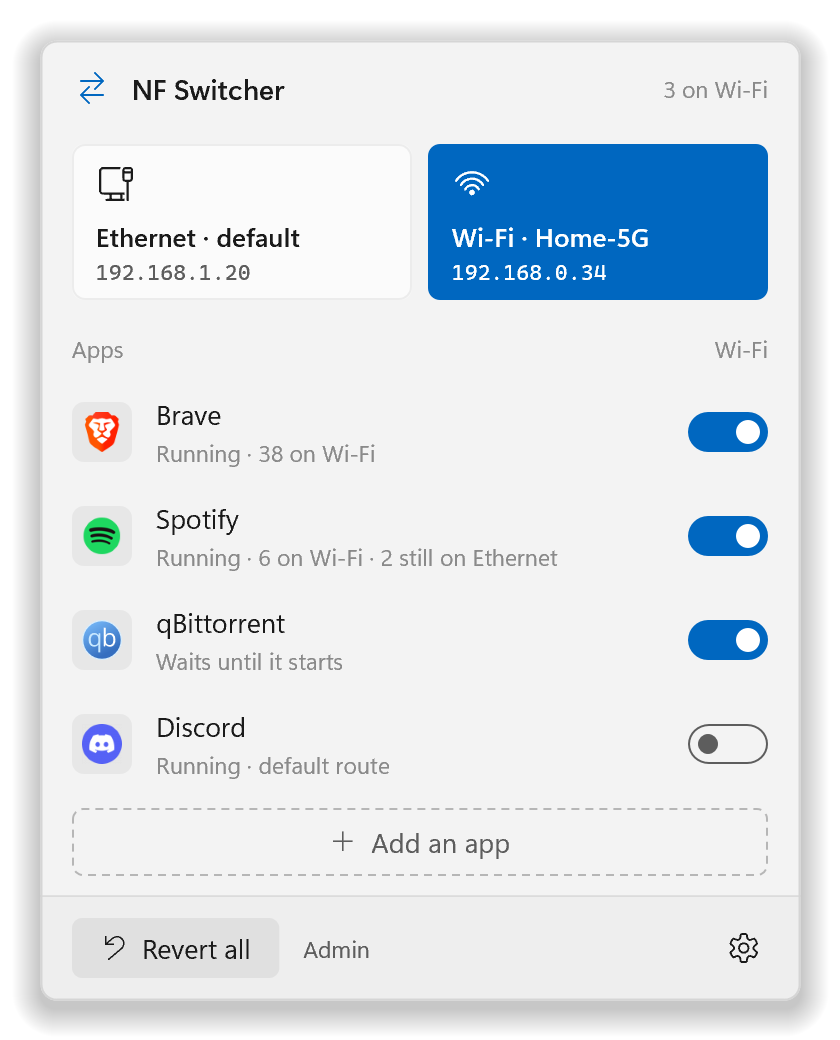
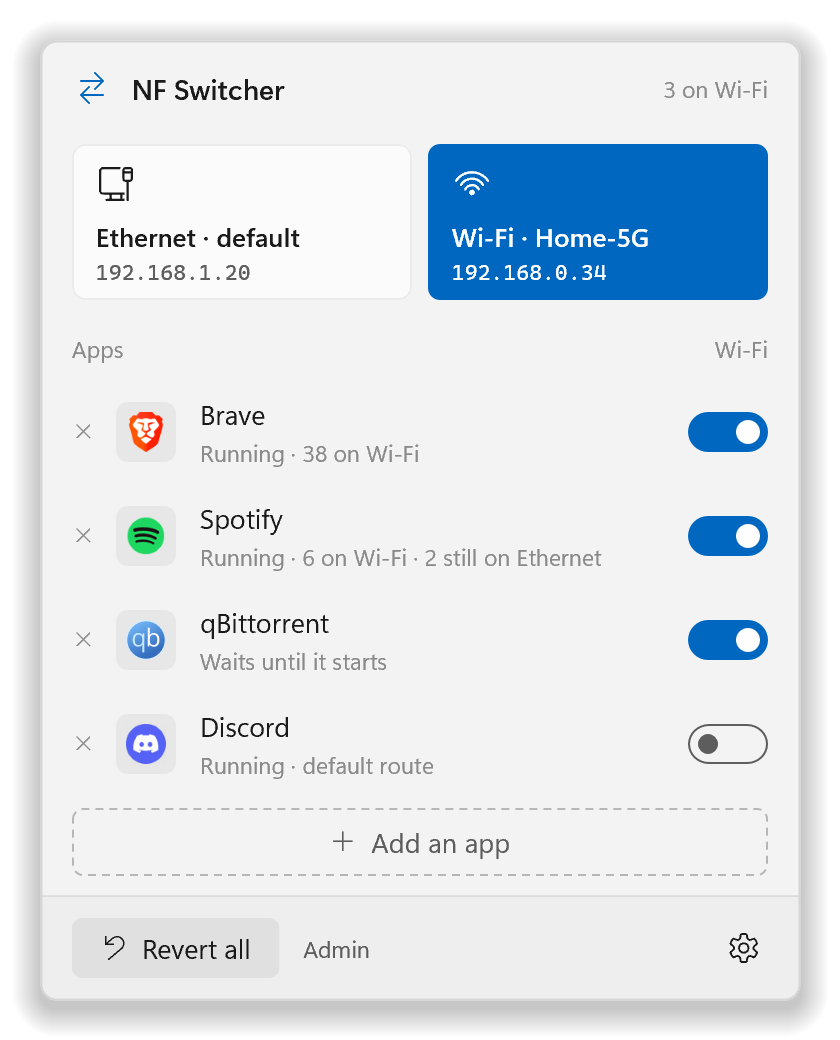
An × on each app's row removes it from the list
Each row on the main page starts with a small ×: clicking it takes the app
off the list (as "Remove from the list" in the right-click menu does, which
stays). It's grey, and red with a highlight under the pointer. The rest of
the row and the switch still turn Wi-Fi on and off.

The view gets its first test (the × removes, the row and switch still
switch), a sample with the × hovered for --shots, and the README says how
to remove an app; its main picture shows the ×.

diff --git a/src/ui/view.rs b/src/ui/view.rs
@@ -41,6 +41,7 @@ pub mod glyph {
     pub const FOLDER: u16 = 0xE8B7;
     pub const CHECK: u16 = 0xE73E;
     pub const DASH: u16 = 0xE738;
+    pub const CLOSE: u16 = 0xE711;
 }
 
 #[derive(Clone, Copy, Debug, PartialEq, Eq)]
@@ -54,6 +55,8 @@ pub enum Page {
 pub enum Hit {
     Toggle(usize),
     AppRow(usize),
+    /// The × at the start of an app's row: takes it off the list.
+    Remove(usize),
     AddApp,
     Revert,
     Gear,
@@ -347,6 +350,21 @@ impl Ctx<'_> {
         self.hit(r, h);
     }
 
+    /// A small × button; red when hovered, since it removes something.
+    fn remove_x(&mut self, r: Rect, h: Hit) {
+        let th = *self.th;
+        self.hit(r, h);
+        if let Some(p) = self.p {
+            let hot = self.hovered(h);
+            if self.pressed(h) {
+                p.fill(r, 4.0, th.press);
+            } else if hot {
+                p.fill(r, 4.0, th.hover);
+            }
+            p.glyph(glyph::CLOSE, r, 10.0, if hot { th.err } else { th.text3 });
+        }
+    }
+
     /// A Windows-style check box: accent with a check mark (or a dash for "some"), else an outline.
     fn check(&mut self, r: Rect, state: Check, h: Hit) {
         let th = *self.th;
@@ -516,9 +534,11 @@ fn main_page(c: &mut Ctx, max_h: f32) -> Frame {
             let row = Rect::new(8.0, ry, WIDTH - 16.0, ROW);
             c.hover_bg(row, Hit::AppRow(i));
             c.hit(row, Hit::AppRow(i));
-            c.icon(Rect::new(PAD, ry + 11.0, 30.0, 30.0), &a.path, &a.name);
+            // Added after the row, so a click on it removes the app instead of switching it.
+            c.remove_x(Rect::new(10.0, ry + 14.0, 24.0, 24.0), Hit::Remove(i));
+            c.icon(Rect::new(PAD + 22.0, ry + 11.0, 30.0, 30.0), &a.path, &a.name);
             if let Some(p) = c.p {
-                let tx = PAD + 42.0;
+                let tx = PAD + 64.0;
                 let tw = WIDTH - tx - PAD - 52.0;
                 p.text(&a.name, Rect::new(tx, ry + 7.0, tw, 20.0), Font::Body, th.text, Align::Left);
                 let sc = if a.warn { th.warn } else { th.text3 };
@@ -811,5 +831,24 @@ pub fn paragraph_height(fonts: &Fonts, s: &str, f: Font, w: f32) -> f32 {
         let _ = layout.SetWordWrapping(DWRITE_WORD_WRAPPING_WRAP);
         let mut m = DWRITE_TEXT_METRICS::default();
         if layout.GetMetrics(&mut m).is_ok() { m.height.ceil() } else { 18.0 }
+    }
+}
+
+#[cfg(test)]
+mod tests {
+    use super::*;
+
+    #[test]
+    fn each_app_row_has_an_x_that_removes_it() {
+        let fonts = Fonts::new().unwrap();
+        let m = super::super::sample::main_page();
+        let f = render(None, &Theme::dark(false), &m, &fonts, &NoIcons, 640.0);
+        let xs: Vec<Rect> = f.hits.iter().filter(|(_, h)| matches!(h, Hit::Remove(_))).map(|(r, _)| *r).collect();
+        assert_eq!(xs.len(), m.apps.len());
+        let (x, y) = (xs[0].x + xs[0].w / 2.0, xs[0].y + xs[0].h / 2.0);
+        assert_eq!(f.hit(x, y), Some(Hit::Remove(0)));
+        // The rest of the row still switches the app; the switch itself too.
+        assert_eq!(f.hit(200.0, y), Some(Hit::AppRow(0)));
+        assert_eq!(f.hit(WIDTH - PAD - 20.0, y), Some(Hit::Toggle(0)));
     }
 }

diff --git a/src/ui/window.rs b/src/ui/window.rs
@@ -608,6 +608,10 @@ impl Flyout {
                 self.app.toggle(i);
                 self.app.refresh_activity();
             }
+            Hit::Remove(i) => {
+                self.app.remove(i);
+                self.m.hover = None;
+            }
             Hit::AddApp => self.set_page(Page::Add),
             Hit::Revert => self.app.revert_all(),
             Hit::Gear => self.set_page(Page::Settings),
@@ -799,7 +803,7 @@ impl Flyout {
             WM_RBUTTONUP => {
                 let (x, y) = self.dip(lp);
                 match self.frame.hit(x, y) {
-                    Some(Hit::AppRow(i)) | Some(Hit::Toggle(i)) => (Some(LRESULT(0)), Effect::RowMenu(i, self.screen_point(lp))),
+                    Some(Hit::AppRow(i) | Hit::Toggle(i) | Hit::Remove(i)) => (Some(LRESULT(0)), Effect::RowMenu(i, self.screen_point(lp))),
                     _ => done,
                 }
             }

diff --git a/src/ui/sample.rs b/src/ui/sample.rs
@@ -71,6 +71,13 @@ pub fn hero() -> Model {
     m
 }
 
+/// The main page with the pointer on an app's × (it turns red).
+pub fn remove_hover() -> Model {
+    let mut m = main_page();
+    m.hover = Some(Hit::Remove(2));
+    m
+}
+
 pub fn wifi_down() -> Model {
     let mut m = main_page();
     m.status = "Wi-Fi down".into();
@@ -213,6 +220,7 @@ pub fn all() -> Vec<(&'static str, Model)> {
     vec![
         ("main", main_page()),
         ("hero", hero()),
+        ("main-remove", remove_hover()),
         ("wifi-down", wifi_down()),
         ("needs-admin", needs_admin()),
         ("too-old", too_old()),

diff --git a/README.md b/README.md
@@ -110,7 +110,7 @@ Good to know:
 - **Revert all** puts every app back on the default route and removes everything NF Switcher added to Windows.
   Your list stays, so switching an app back on is one click.
 - **Quit** (right-click the tray icon) does the same for Windows but keeps your choices for next time.
-- Right-click an app to remove it from the list.
+- Click the **×** at the start of an app's row (or right-click the app) to remove it from the list.
 
 ## Settings
 
